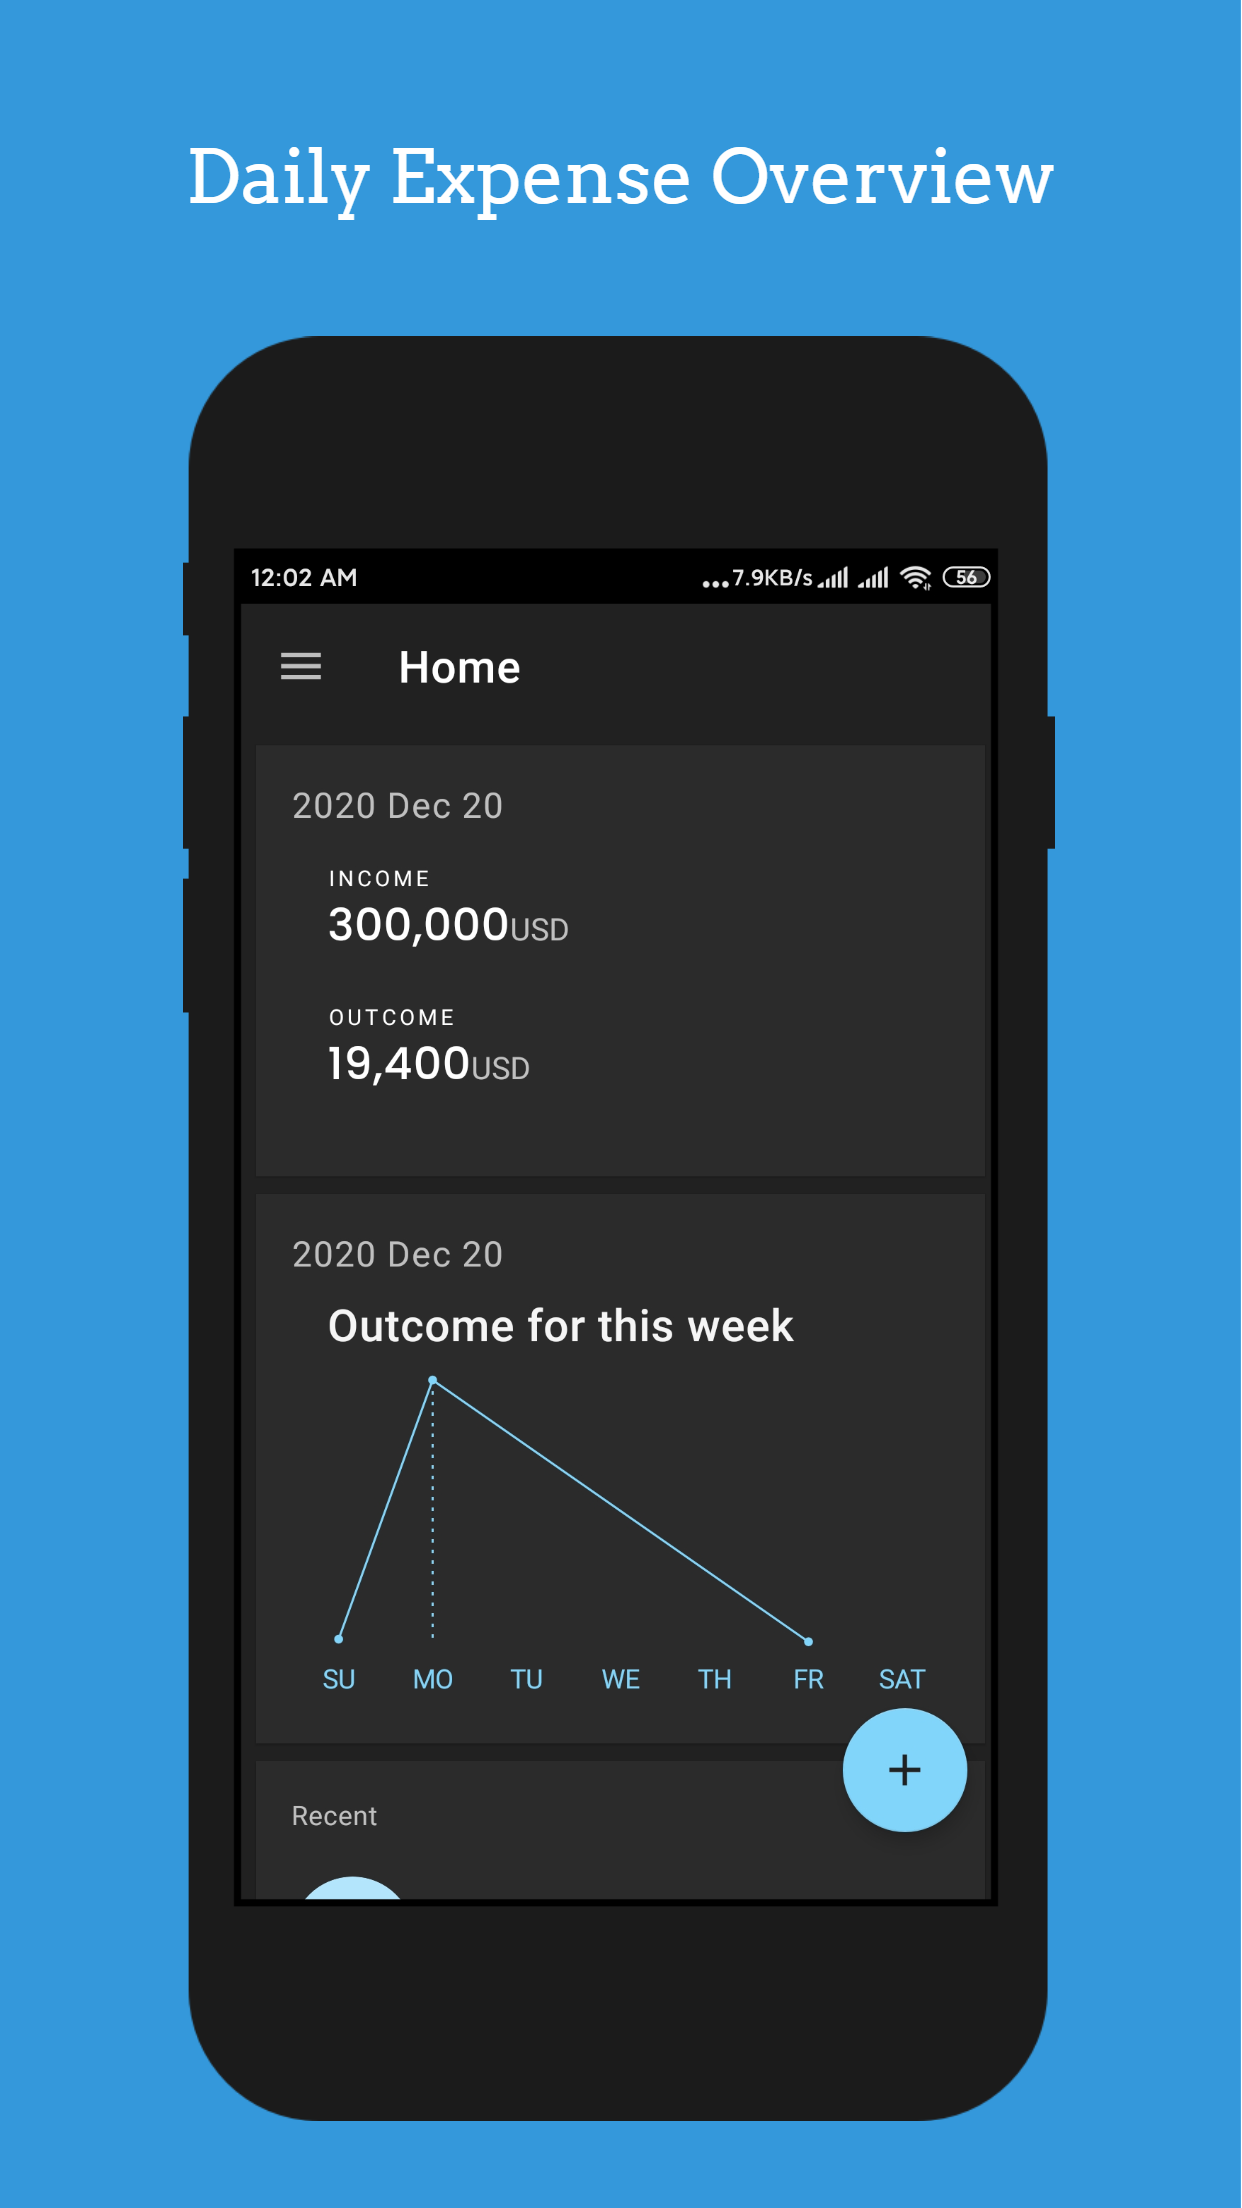
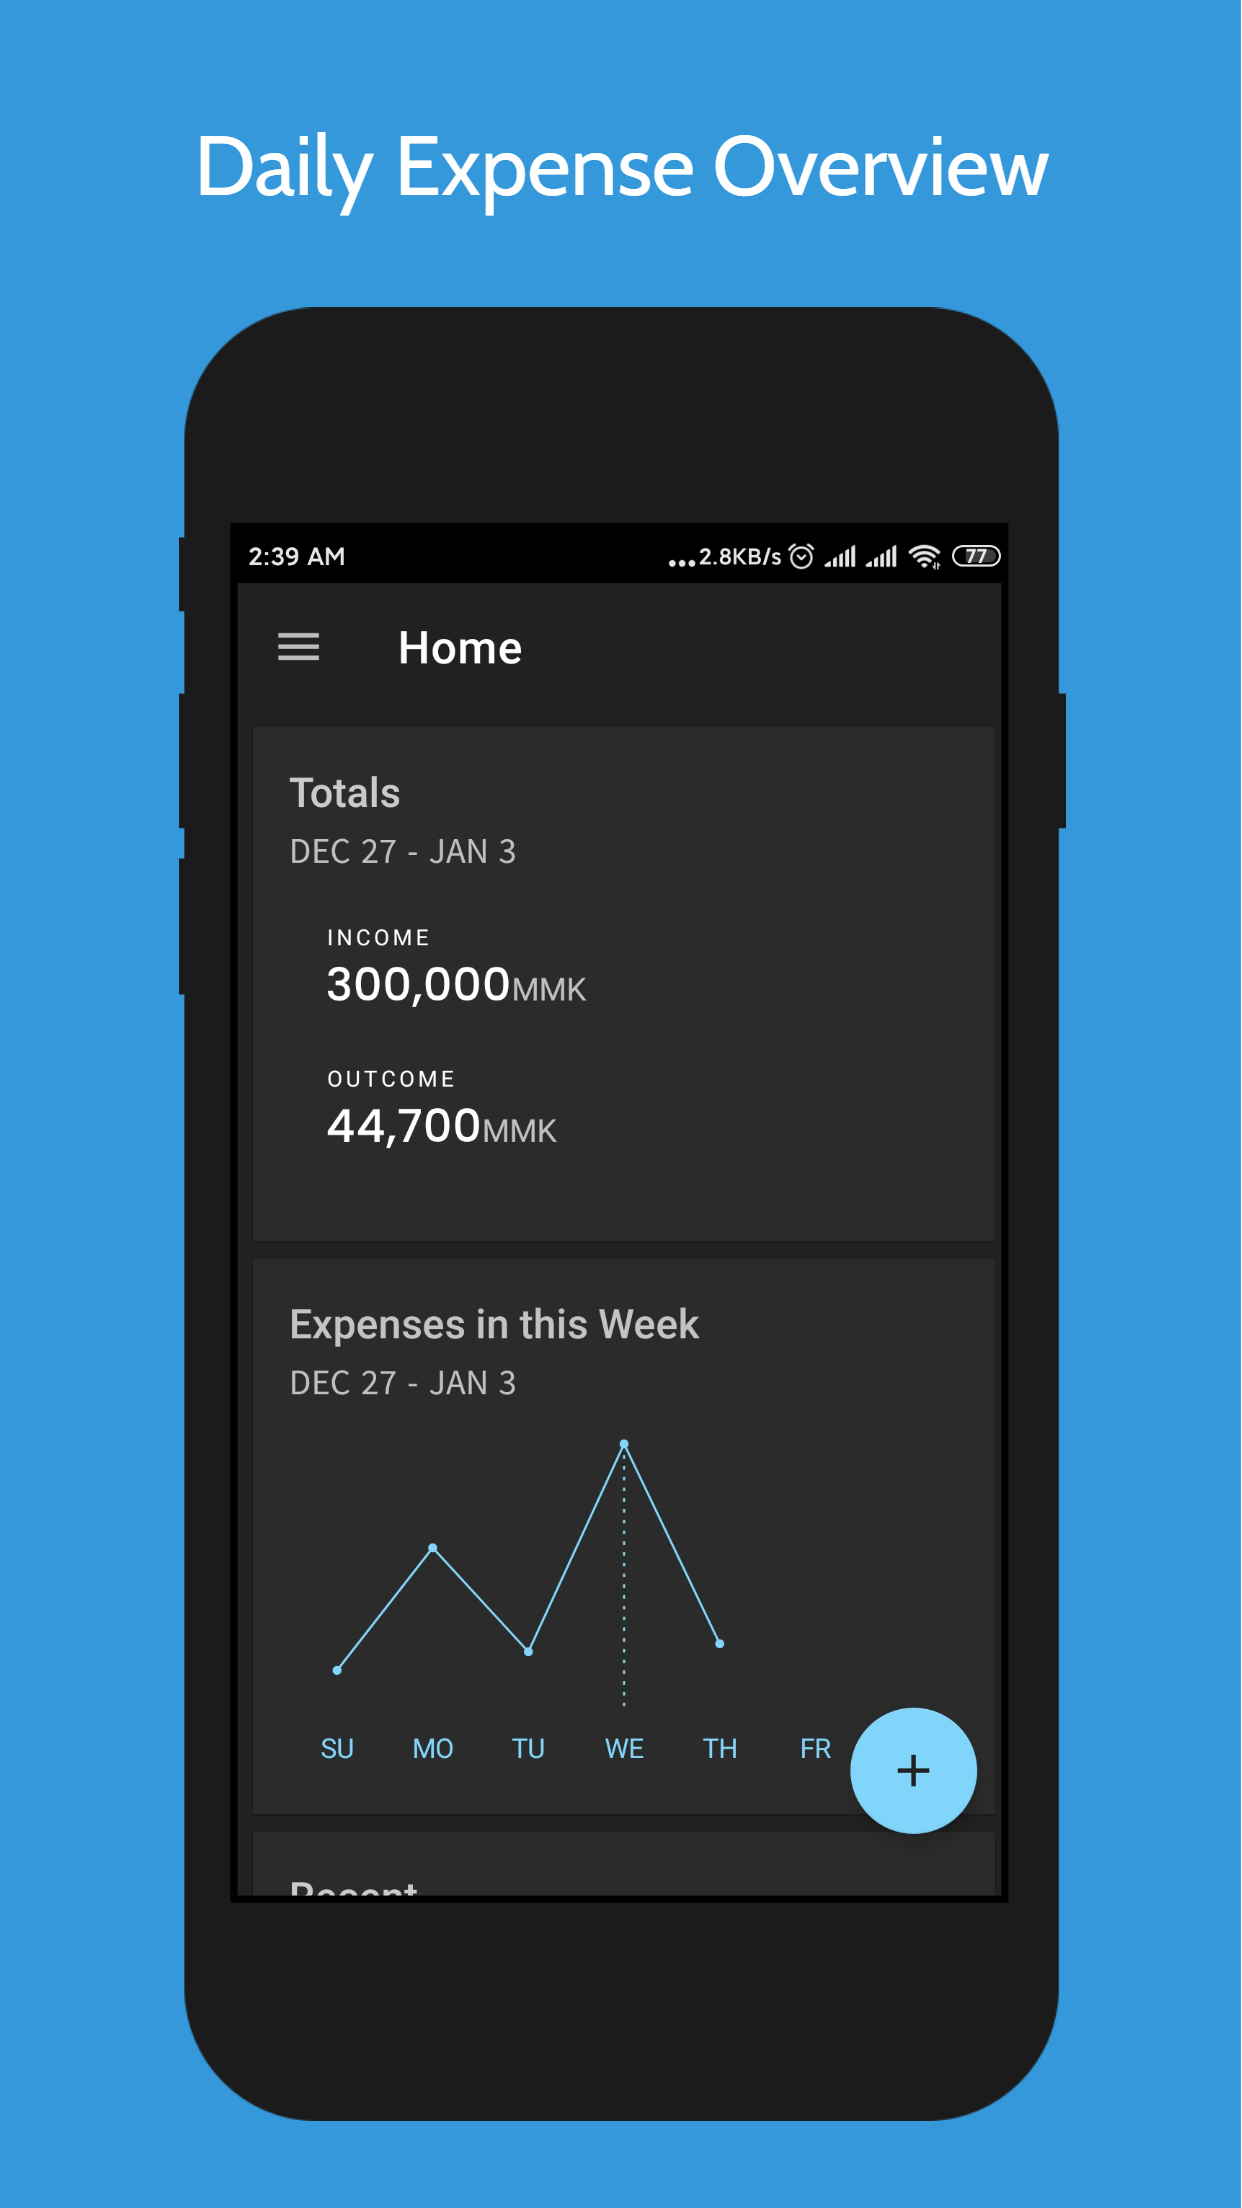
release: v1.0.0-beta02

diff --git a/app/src/main/java/com/arduia/expense/ui/home/HomeViewModel.kt b/app/src/main/java/com/arduia/expense/ui/home/HomeViewModel.kt
@@ -127,7 +127,7 @@ class HomeViewModel @ViewModelInject constructor(
                     is Result.Success -> {
 
                         val weekExpenses = it.data
-                        calculator.setWeekExpenses(weekExpenses)
+                        calculator.setWeekExpenses(weekExpenses.filter { expenseEnt -> expenseEnt.category != ExpenseCategory.INCOME })
 
                         val totalOutcome = weekExpenses.getTotalOutcomeAsync()
                         val totalIncome = weekExpenses.getTotalIncomeAsync()

diff --git a/app/src/main/java/com/arduia/expense/data/backup/ExportWorker.kt b/app/src/main/java/com/arduia/expense/data/backup/ExportWorker.kt
@@ -35,6 +35,7 @@ class ExportWorker @WorkerInject constructor(@Assisted context: Context,
         return Result.success()
     }
 
+
     private suspend fun updateBackupLogAsCompleted(itemCount: Int){
         val oldBackupLog = backupRepo.getBackupByWorkerID(id.toString()).awaitValueOrError()
         oldBackupLog.isCompleted= true

diff --git a/README.md b/README.md
@@ -1,6 +1,6 @@
 <h1 align="center">Pro Expense</h1>
 <p align="center">
-Simple finance note to record daily income and expense for free with no Ads.
+A simple free finance note to sately record daily expense without any Ads.
 </p>
 
 <p align="center">
@@ -15,6 +15,7 @@ Simple finance note to record daily income and expense for free with no Ads.
           <td><img src="https://github.com/arduia/ProExpense/blob/master/previews/screenshot_3.png" width="220"></td>
        </tr>
  </table>
+
  
 ## Download
 <a href="https://play.google.com/store/apps/details?id=com.arduia.expense">
@@ -31,22 +32,33 @@ Simple finance note to record daily income and expense for free with no Ads.
 </a>
 
 ## Libraries
-* [Android Jetpack][support-lib] 
 * [Material Component][material]
-* [Android Architecture Components][arch]
 * [Android View Binding][view-binding]
+* [Paging2][paging]
+* [ProgressView][progress-view]
+* [Kotlin Coroutines, Flow][coroutines-flow]
+* [Navigation][navigation]
 * [Dagger Hilt][dagger-hilt]
+* [WorkManager][workmanager]
+* [MVVM-Core][mvvm-core]
 * [Retrofit][retrofit]
+* [KTX Libraries][ktx]
+* [Leak Carary][leak-carary]
 * [Timber][timber]
 
 
-[support-lib]: https://developer.android.com/topic/libraries/support-library/index.html
-[arch]: https://developer.android.com/arch
-[view-binding]: https://developer.android.com/topic/libraries/view-binding
-[dagger-hilt]: https://dagger.dev/
-[retrofit]: http://square.github.io/retrofit 
-[timber]: https://github.com/JakeWharton/timber 
 [material]: https://github.com/material-components/material-components-android
+[view-binding]: https://developer.android.com/topic/libraries/view-binding
+[paging]: https://developer.android.com/topic/libraries/architecture/paging
+[progress-view]: https://github.com/skydoves/ProgressView
+[coroutines-flow]: https://kotlinlang.org/docs/reference/coroutines/flow.html
+[navigation]: https://developer.android.com/guide/navigation
+[dagger-hilt]: https://dagger.dev/
+[mvvm-core]: https://github.com/arduia/mvvm-core
+[ktx]: https://developer.android.com/kotlin/ktx
+[leak-canary]: https://github.com/square/leakcanary
+[retrofit]: http://square.github.io/retrofit 
+[timber]: https://github.com/JakeWharton/timber
 
 
 # License
